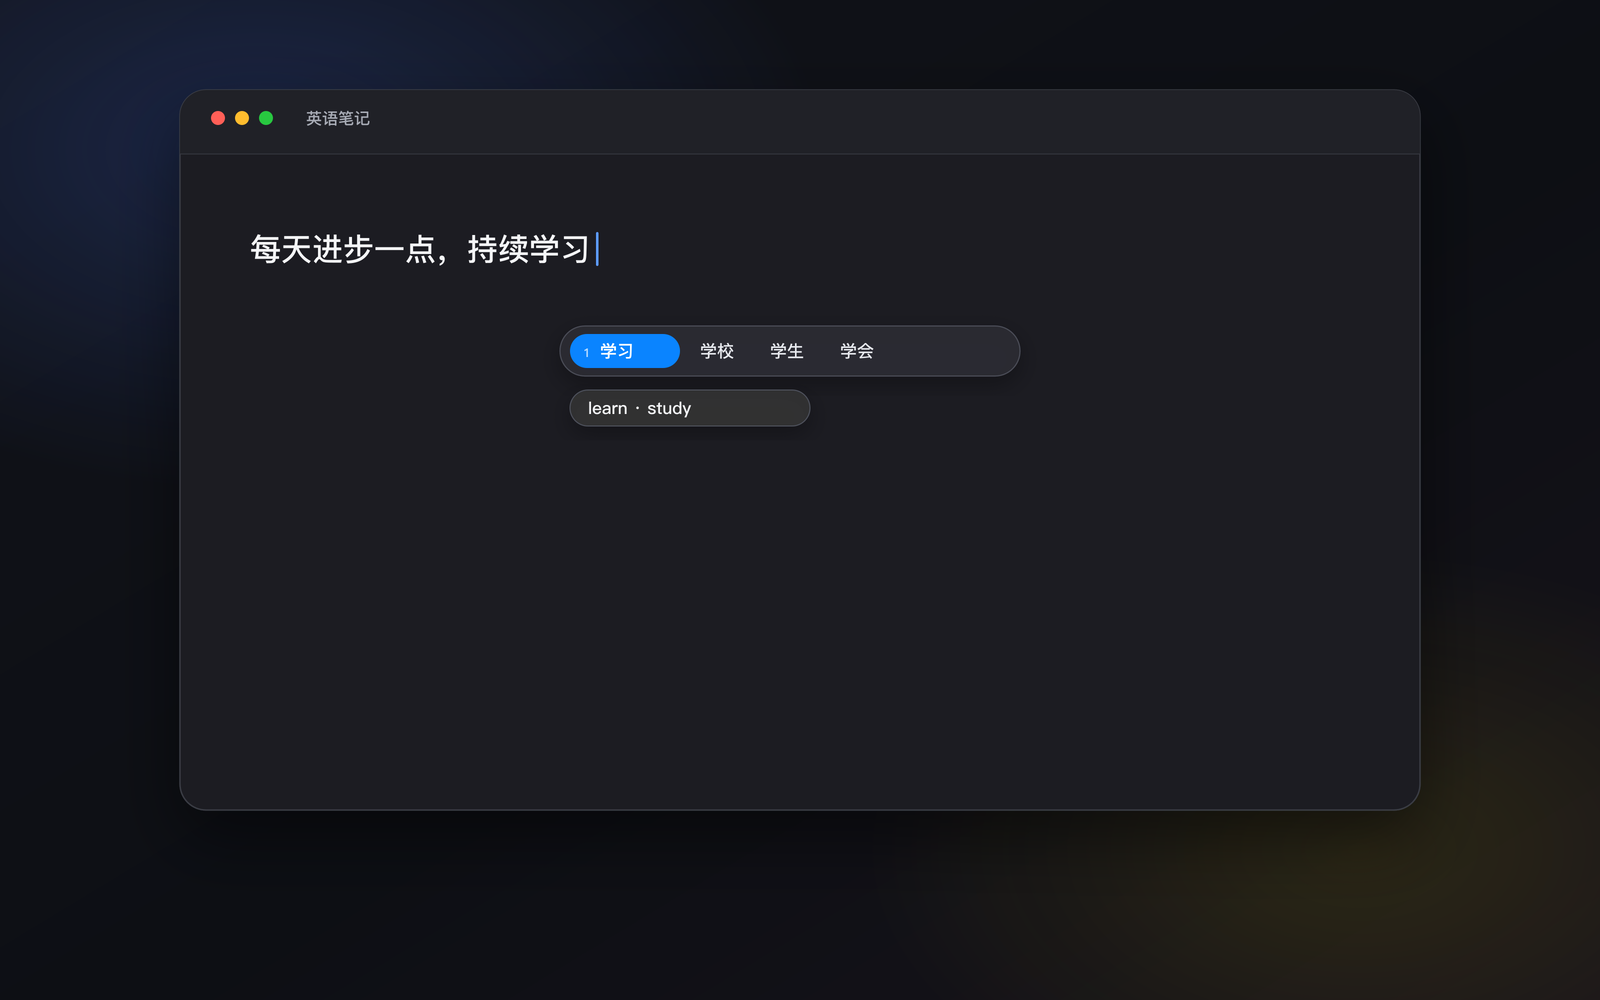
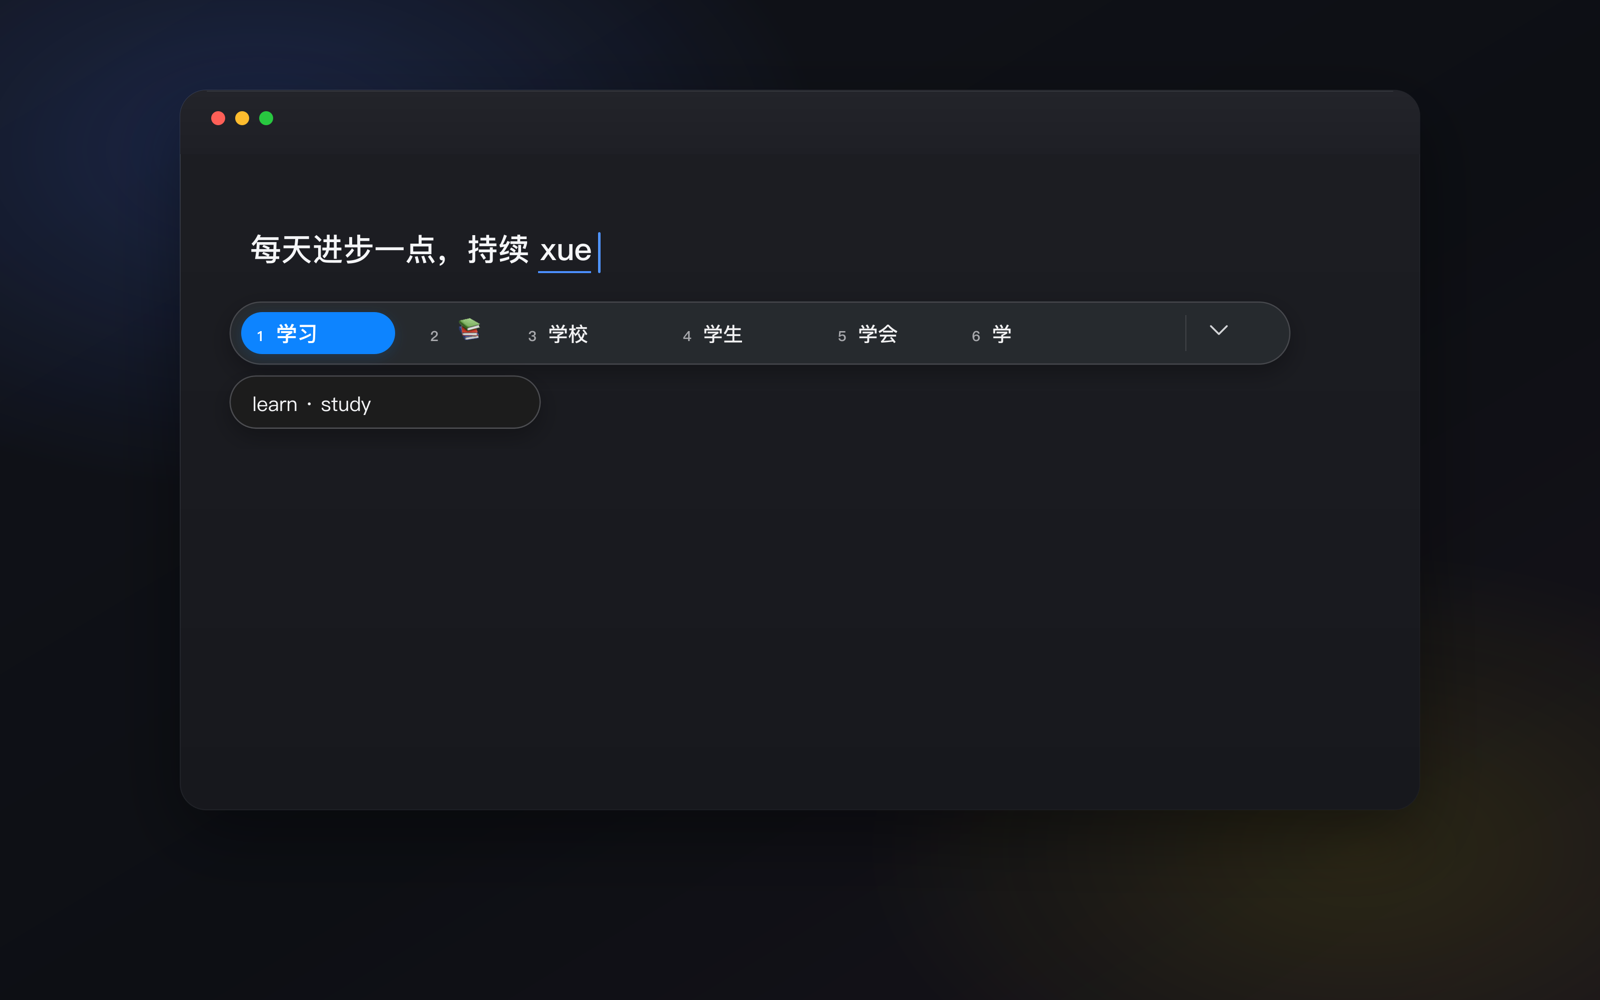
Polish product presentation

diff --git a/Packages/GlintUI/Sources/GlintUI/MainWindow/MainWindowView.swift b/Packages/GlintUI/Sources/GlintUI/MainWindow/MainWindowView.swift
@@ -1041,6 +1041,7 @@ private struct PrivacyNoticeCard: View {
 
 private struct AboutPage: View {
     private let repositoryURL = URL(string: "https://github.com/jsogn/Glint")!
+    private let issuesURL = URL(string: "https://github.com/jsogn/Glint/issues")!
 
     private var version: String {
         Bundle.main.object(
@@ -1063,15 +1064,17 @@ private struct AboutPage: View {
                         VStack(alignment: .leading, spacing: 6) {
                             Text("Glint")
                                 .font(.title3.weight(.semibold))
-                            Text("在你的输入旁，看到英文翻译，将学习融入日常。")
+                            Text("输入中文时，在候选旁看到自然的英文表达。")
                                 .foregroundStyle(.secondary)
                             Text("版本 \(version)")
                                 .font(.caption)
                                 .foregroundStyle(.secondary)
-                            Link("查看 GitHub 项目", destination: repositoryURL)
-                                .font(.callout)
                         }
                     }
+
+                    Text("Glint 不替换输入法，只读取当前输入法候选，并在本机完成翻译。")
+                        .font(.callout)
+                        .foregroundStyle(.secondary)
 
                     Divider()
 
@@ -1080,6 +1083,12 @@ private struct AboutPage: View {
                             .foregroundStyle(.secondary)
                         Spacer()
                         Text("macOS 26+ · Apple 芯片")
+                    }
+                    .font(.callout)
+
+                    HStack(spacing: 16) {
+                        Link("GitHub 项目", destination: repositoryURL)
+                        Link("问题反馈", destination: issuesURL)
                     }
                     .font(.callout)
                 }

diff --git a/README.md b/README.md
@@ -1,31 +1,49 @@
 # Glint
 
-面向中文母语者的 macOS 英文学习工具。输入中文时，Glint 会在拼音候选栏旁显示
-对应的英文，让查词和英语接触自然融入日常输入。
+**输入中文时，在候选栏旁看到自然的英文表达。**
 
-![在日常中文输入中学习英文](docs/assets/glint-usage.png)
+Glint 是一款为 macOS 打造的英文学习工具。使用苹果拼音输入时，在候选上稍作
+停留，就能在不打断输入的情况下看到对应英文。它不替换输入法，也不会改变你的输入
+习惯。
 
-Glint 不替换输入法，不抢焦点，也不改变候选顺序。它只读取当前拼音候选，
-并在你写作、聊天或搜索时提供即时、单行的英文参考。
+![在苹果拼音候选栏旁显示英文提示](docs/assets/glint-usage.png)
 
-## 功能
+## 使用方式
 
-- 优先支持苹果拼音 `Pinyin - Simplified`；其他输入法仅在提供可验证候选结构时识别
-- 选中模式跟随当前焦点候选；一栏模式按输入法序号显示整栏候选的英文
-- 支持单词、短语和短句；单词提供常用英文对应词，短句提供自然翻译
-- 可选词典优先或模型优先，未命中或失败时自动回退另一来源
-- 内置 CC-CEDICT、ECDICT、Wiktionary 和轻量 OPUS-MT 翻译模型
-- 支持按需下载更大的离线翻译模型，或导入本地 MLX 模型
-- 可调整 HUD 位置、候选停留时间、背景材质、颜色、透明度、字号、留白和间距
-- 通过主窗口管理翻译模式、显示效果、插件与模型、权限和隐私设置
+1. 从 [GitHub Releases](https://github.com/jsogn/Glint/releases/latest) 下载并
+   安装 Glint。
+2. 首次启动时，按提示授予辅助功能权限。
+3. 切换到苹果拼音 `Pinyin - Simplified`，正常输入中文。
+4. 停在一个候选上片刻，英文提示会出现在候选栏旁。
 
-第三方输入法是否可用取决于它是否向 macOS 辅助功能暴露与输入法候选一致的
-候选结构、当前选中项和位置；Glint 不猜测或读取普通列表。无法读取时会静默跳过，
-不影响苹果拼音主路径。
+Glint 支持单词、短语和短句。单词会尽量给出简洁、常用的英文对应词，短句则显示
+自然翻译。
 
-## 从源码运行
+## 特点
 
-需要 macOS 26 或更高版本、Apple Silicon Mac、Xcode 26 和 XcodeGen：
+- **安静地融入输入**：只在候选旁显示一行英文，不抢焦点、不替换输入法。
+- **专为中文表达设计**：从常见词语到完整短句，都能获得简洁的英文参考。
+- **开箱即用**：内置离线词典和轻量翻译模型，无需额外下载即可使用。
+- **按需增强**：可以在应用内安装更大的本地翻译模型，获得更自然的句子表达。
+- **本地处理**：词典查询和模型推理均在本机完成，候选与译文不会发送到网络。
+
+## 隐私
+
+- 只读取输入法候选，不读取输入框正文或选中文字内容。
+- 不保存候选文本、翻译结果或输入历史。
+- 不截图，不安装键盘事件监听。
+- 在密码框、终端安全输入等场景中自动跳过。
+
+## 安装说明
+
+当前测试版要求 **macOS 26 或更高版本**，仅支持 **Apple Silicon Mac**。
+
+请先将 Glint 移入“应用程序”文件夹，再从该位置启动。如果 macOS 首次打开时
+无法验证应用，请在“系统设置 → 隐私与安全性”中确认一次。
+
+## 从源码构建
+
+需要 macOS 26、Apple Silicon、Xcode 26 和 XcodeGen：
 
 ```bash
 git clone https://github.com/jsogn/Glint.git
@@ -33,49 +51,5 @@ cd Glint
 ./scripts/run.sh
 ```
 
-首次构建会把固定 revision 的 OPUS-MT 转换为 CTranslate2 int8，校验产物后
-打入 `Glint.app`。转换工具和源文件会缓存在 Git 忽略目录中；之后构建可复用。
-源模型默认从 `hf-mirror.com` 下载，也可以通过 `GLINT_HF_ENDPOINT` 指定镜像。
-最终 App 启动和翻译均使用内置本地资源，不需要联网。
-
-如需在不具备 Developer ID 的情况下制作内部测试 DMG：
-
-```bash
-./scripts/package_test_dmg.sh
-```
-
-产物位于 `build-release/`，使用 ad-hoc 签名，因此仍需在目标 Mac 上通过
-“隐私与安全性”手动允许首次打开。
-
-预构建测试包会发布在
-[GitHub Releases](https://github.com/jsogn/Glint/releases)。当前测试包要求
-macOS 26 和 Apple Silicon，并且尚未签名公证。
-
-架构、发布和验证文档统一从 [`docs/`](docs/README.md) 进入。
-
-## 开始使用
-
-1. 打开 Glint。
-2. 按提示授权辅助功能。
-3. 切换到苹果拼音 `Pinyin - Simplified` 并正常输入，候选栏旁会显示对应英文。
-
-首次使用时，可在主窗口中配置翻译来源和显示效果。单词、短语和短句均可直接
-使用内置能力；如需更高质量，可安装更大的离线翻译模型。
-
-## 故障诊断
-
-如果授权后没有显示英文，可运行：
-
-```bash
-/Applications/Glint.app/Contents/MacOS/Glint --diagnose
-```
-
-诊断输出不包含候选原文，只报告权限、输入源、前台 App、光标和候选发现状态。
-
-## 隐私
-
-- Glint 不保存候选文本、翻译结果或输入历史。
-- 不截图、不执行 OCR，也不安装键盘事件监听。
-- 只读取输入法候选和显示位置，不读取输入框正文或选中文字内容。
-- 密码框、终端安全输入等场景自动跳过。
-- 词典查询和模型推理均在本机完成，候选文本和翻译内容不会发送到网络。
+首次构建会准备并校验内置的轻量翻译模型。架构、发布和验证说明见
+[`docs/`](docs/README.md)。

diff --git a/Resources/Distribution/GITHUB-RELEASE-NOTES.md b/Resources/Distribution/GITHUB-RELEASE-NOTES.md
@@ -1,17 +1,26 @@
-## Glint 测试版
+输入中文时，在候选栏旁看到自然的英文表达。
 
-系统要求：
+Glint 不替换输入法，不读取输入框正文，所有翻译都在本机完成。
+
+## 安装
+
+1. 下载并打开 `Glint-*-macOS26-arm64.dmg`。
+2. 将 Glint 移入“应用程序”文件夹，再从该位置启动。
+3. 如果 macOS 提示无法验证应用，请在“系统设置 → 隐私与安全性”中确认。
+4. 按提示授予辅助功能权限。
+
+## 开始使用
+
+切换到苹果拼音 `Pinyin - Simplified`，正常输入中文。停在候选上片刻，英文提示
+会出现在候选栏旁。
+
+## 系统要求
 
 - macOS 26 或更高版本
 - Apple Silicon Mac
 
-下载 `Glint-*-macOS26-arm64.dmg` 和同名 `.sha256` 文件后，在下载目录执行：
+也可以在下载目录校验安装包：
 
 ```bash
 shasum -a 256 -c Glint-*-macOS26-arm64.dmg.sha256
 ```
-
-当前包使用 ad-hoc 签名，没有 Developer ID，也没有经过 Apple 公证。首次打开时，
-macOS 可能要求在“系统设置 > 隐私与安全性”中手动允许运行。该版本仅用于测试。
-
-安装后请将 Glint 移入“应用程序”文件夹，再授予辅助功能权限。
